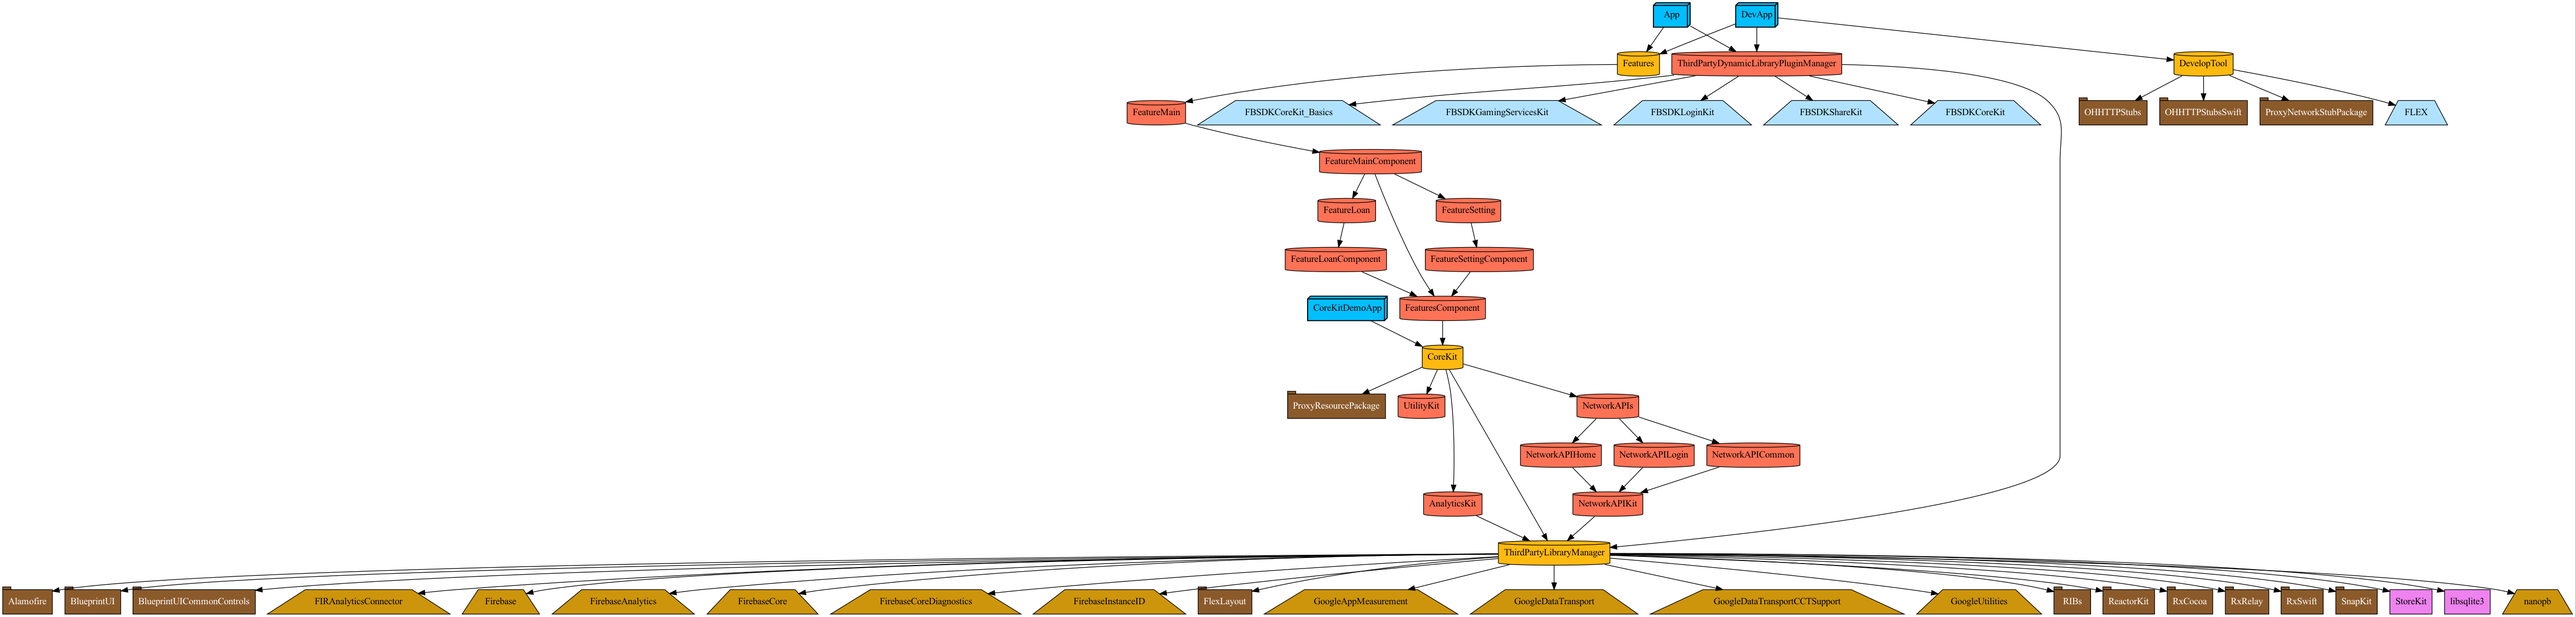
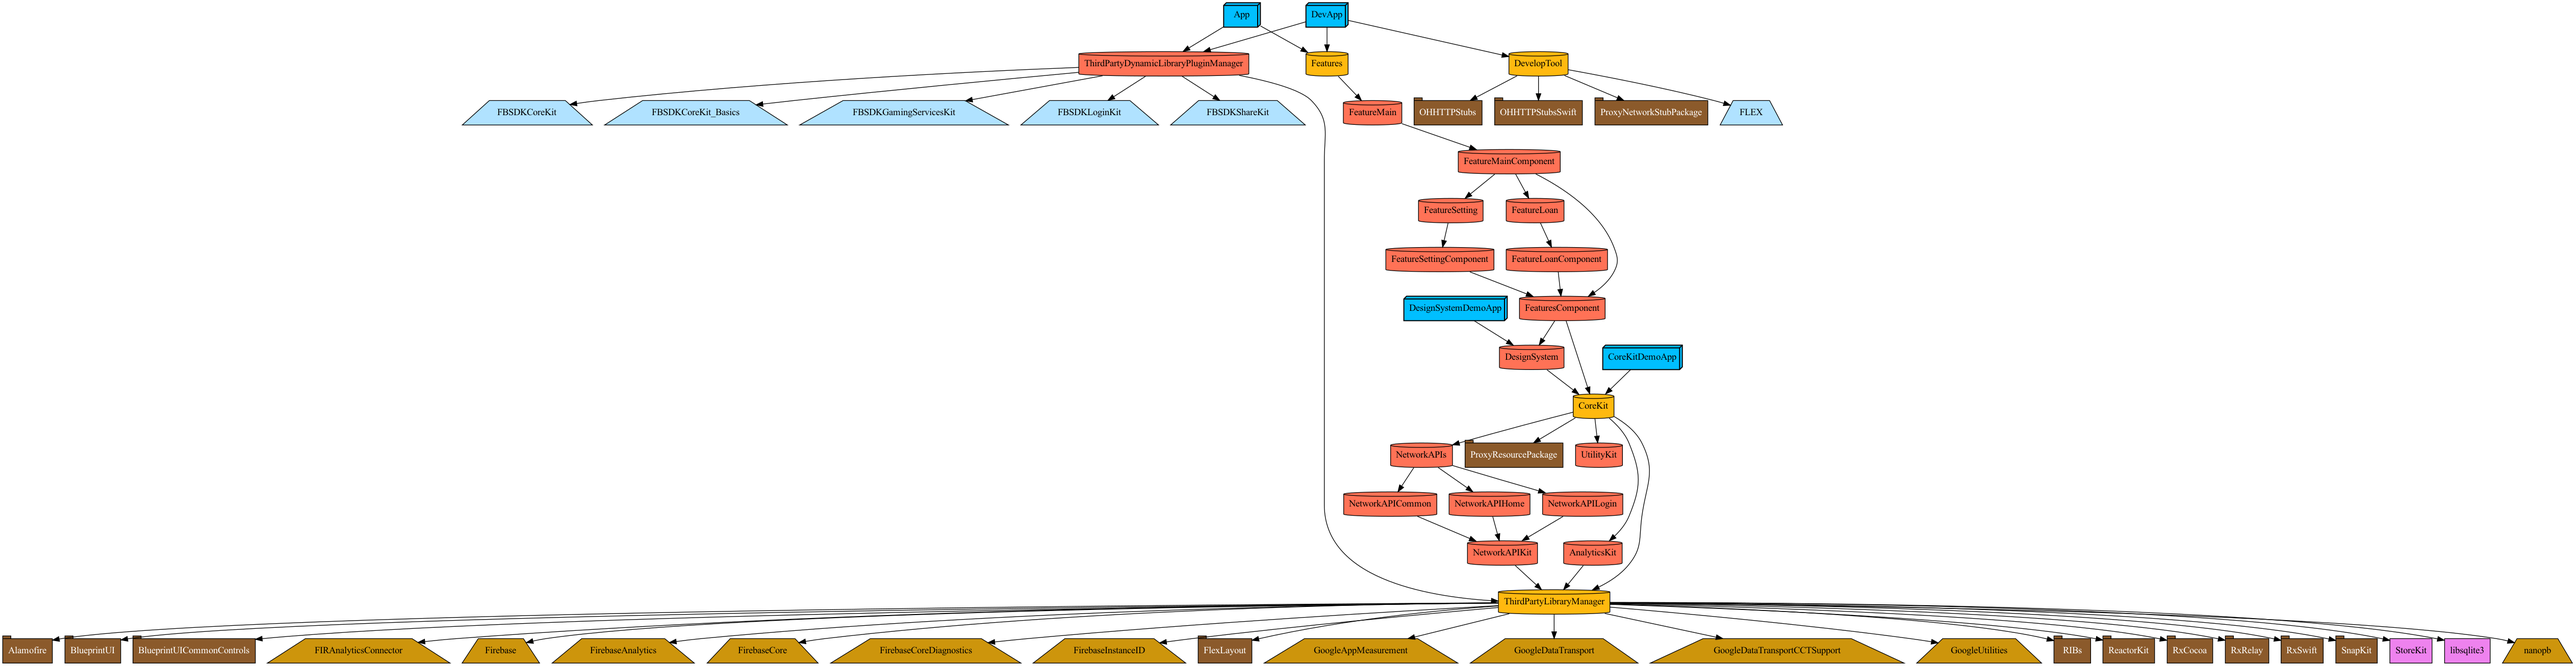
add DesignSystem module

Changed region(s): [[0.0, 0.0, 1.0, 1.0], [0.8396, 0.0611, 0.8707, 0.1222]]

diff --git a/Plugin/UtilityPlugin/ProjectDescriptionHelpers/Dependency+Project.swift b/Plugin/UtilityPlugin/ProjectDescriptionHelpers/Dependency+Project.swift
@@ -32,6 +32,7 @@ public extension TargetDependency.Project {
     static let NetworkAPIKit            = TargetDependency.module(name: "NetworkAPIKit")
     static let NetworkAPIs              = TargetDependency.module(name: "NetworkAPIs")
     static let CoreKit                  = TargetDependency.module(name: "CoreKit")
+    static let DesignSystem             = TargetDependency.module(name: "DesignSystem")
     static let DevelopTool              = TargetDependency.module(name: "DevelopTool")
     static let AnalyticsKit             = TargetDependency.module(name: "AnalyticsKit")
     static let ThirdPartyLibraryManager = TargetDependency.module(name: "ThirdPartyLibraryManager")

diff --git a/Projects/Modules/DesignSystem/Demo/Sources/AppDelegate.swift b/Projects/Modules/DesignSystem/Demo/Sources/AppDelegate.swift
@@ -1,0 +1,20 @@
+import UIKit
+
+@UIApplicationMain
+class AppDelegate: UIResponder, UIApplicationDelegate {
+
+    var window: UIWindow?
+
+    func application(
+        _ application: UIApplication,
+        didFinishLaunchingWithOptions launchOptions: [UIApplication.LaunchOptionsKey : Any]? = nil
+    ) -> Bool {
+        window = UIWindow(frame: UIScreen.main.bounds)
+        let viewController = UIViewController()
+        viewController.view.backgroundColor = .white
+        window?.rootViewController = viewController
+        window?.makeKeyAndVisible()
+
+        return true
+    }
+}

diff --git a/Projects/Features/FeaturesComponent/Project.swift b/Projects/Features/FeaturesComponent/Project.swift
@@ -4,5 +4,6 @@ import ProjectDescriptionHelpers
 let project = Project
     .staticFramework(name: "FeaturesComponent",
                      dependencies: [
-                        .Project.CoreKit
+                        .Project.CoreKit,
+                        .Project.DesignSystem,
                      ])

diff --git a/Projects/Modules/DesignSystem/Project.swift b/Projects/Modules/DesignSystem/Project.swift
@@ -1,0 +1,9 @@
+import ProjectDescription
+import ProjectDescriptionHelpers
+
+let project = Project
+    .staticFramework(name: "DesignSystem",
+               		 dependencies: [
+                        .Project.CoreKit
+               		 ],
+               		 hasDemoApp: true)
